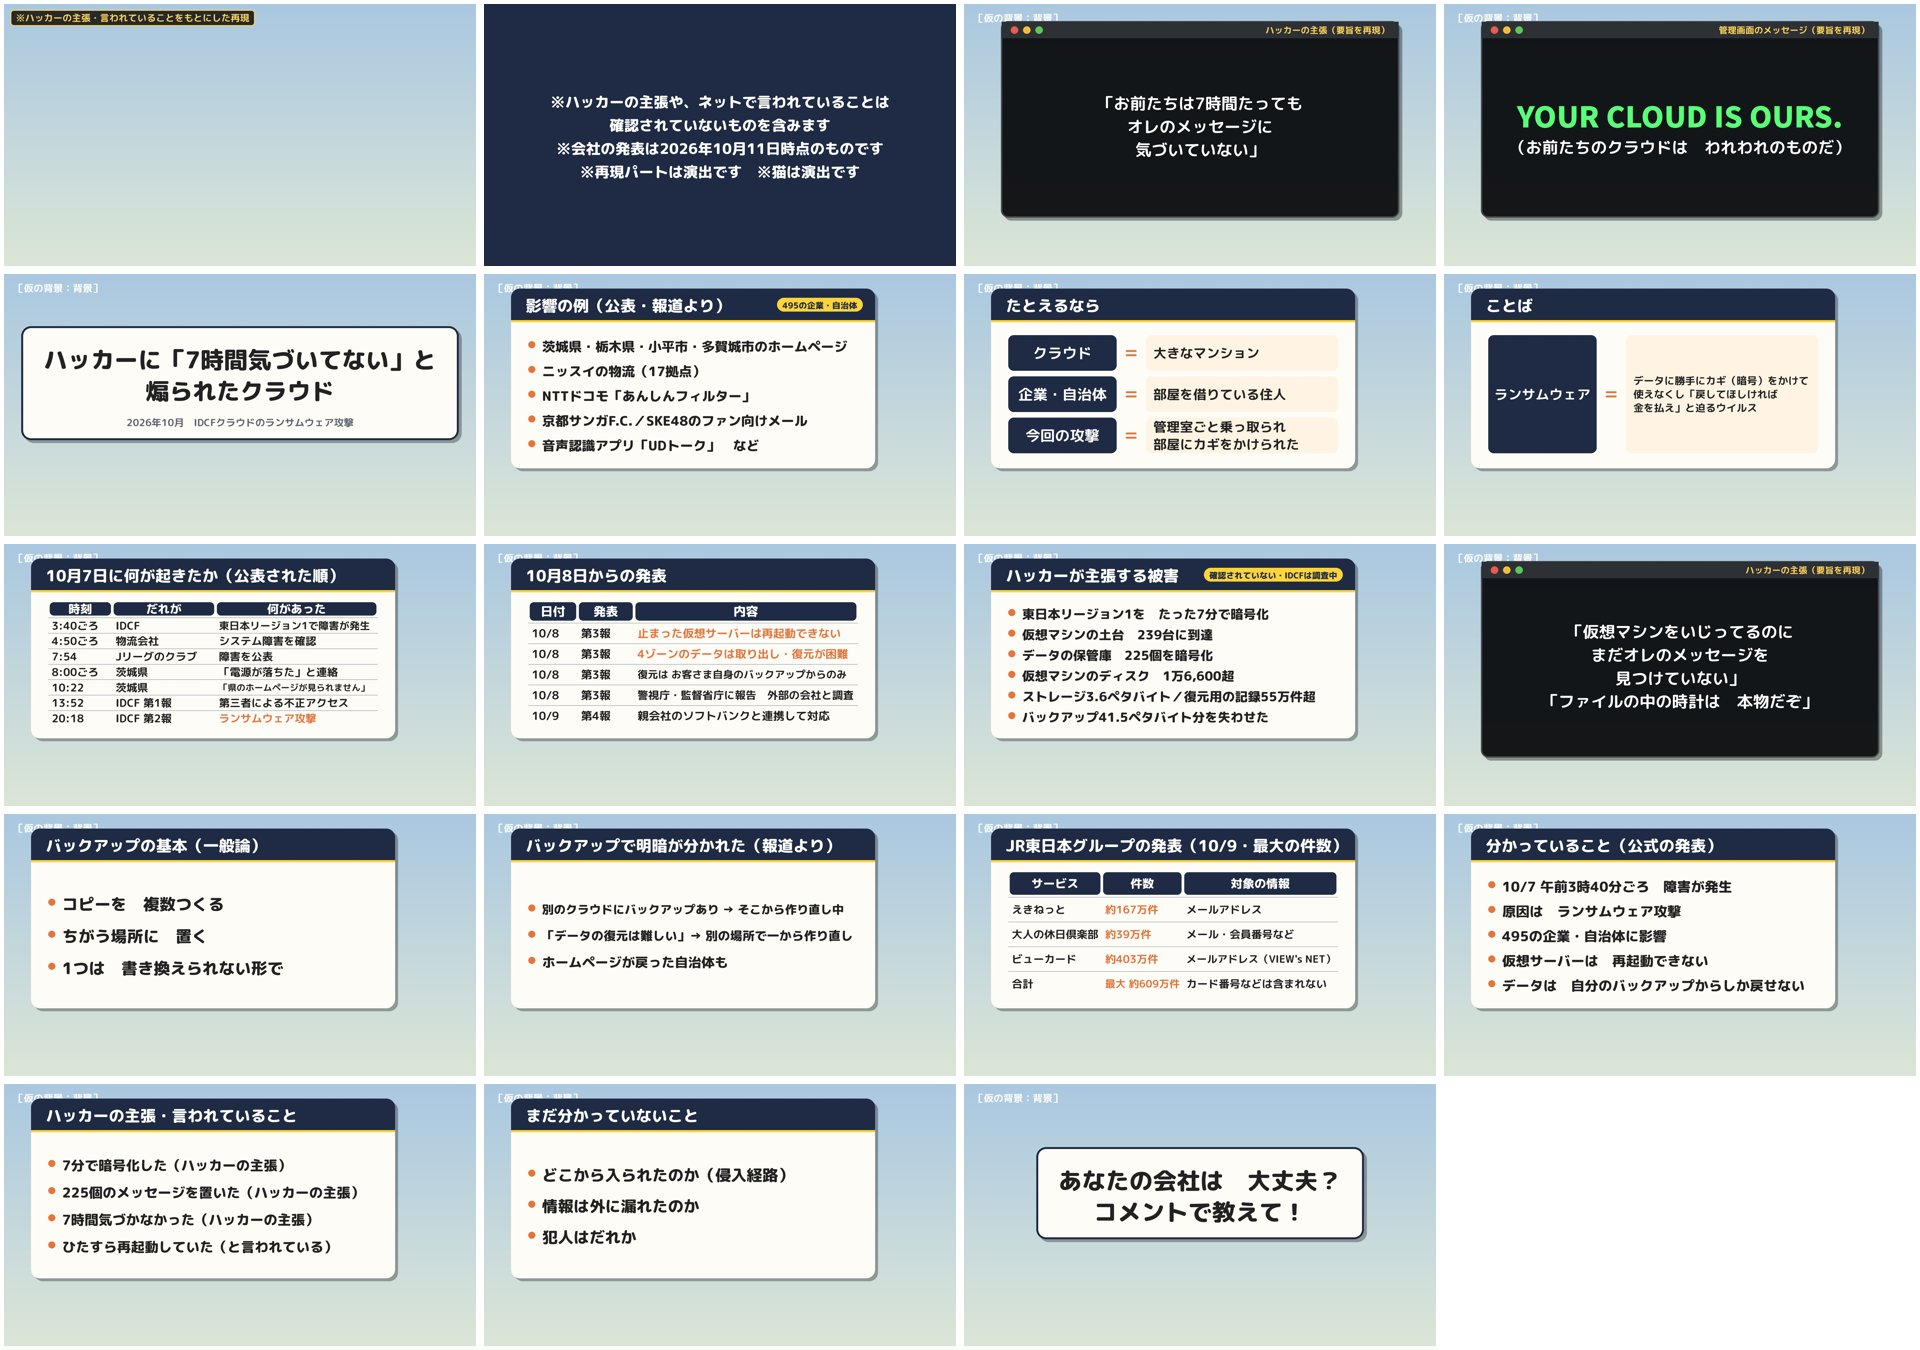
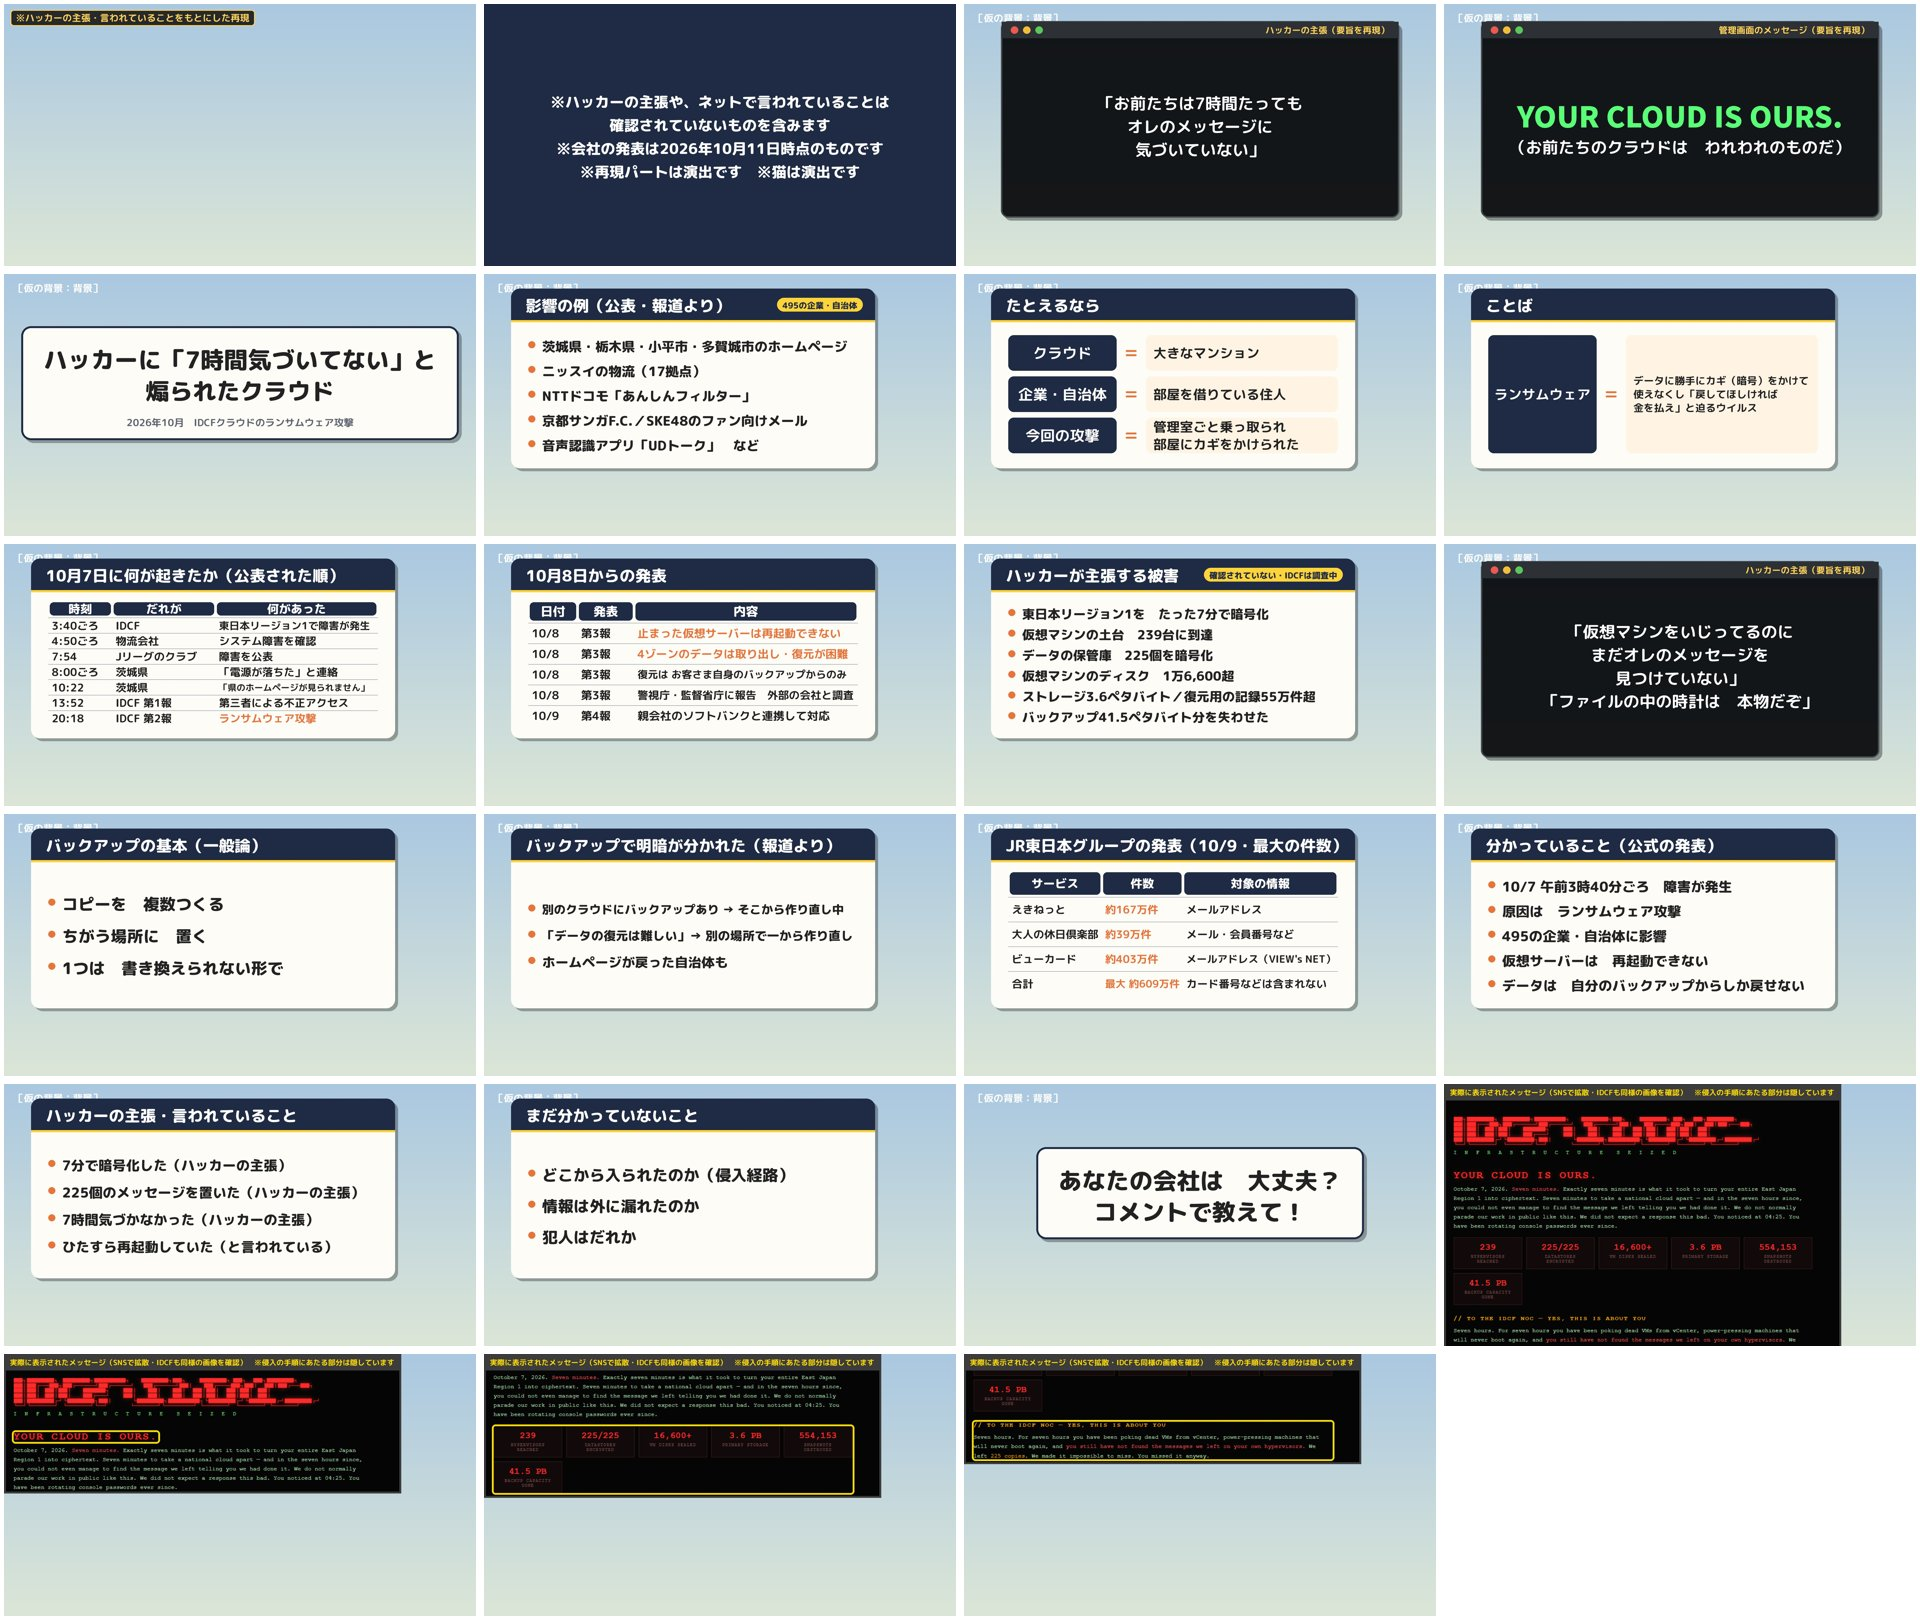
10本目：実際のメッセージ画像で「このメッセージが送られ、すべてが暴露された」場面を追加（侵入の手順の部分は隠す）
Claude-Session: https://claude.ai/code/session_011g9CsrfFD5YswfNSvNDW39

diff --git a/catmeme/cuts_10_idcf.py b/catmeme/cuts_10_idcf.py
@@ -86,7 +86,8 @@ def cuts_all():
         one("bg26_phone_alert", "県のホームページ\n会社の物流システム\nスマホの見守りサービス……", se="pi"),
         one(HACKER, "そして管理画面には\nハッカーのメッセージが\n表示されていた", se="rumble_gogogo",
             bgm={"file": PURPLE, "gain": -4}),
-        dia("e01_msg", "管理画面に出たメッセージ（要旨を再現）", HACKER, right=N, dur=4.4, se="anime_yugioh_summon_powerful_appearance"),
+        dia("r1_top", "「YOUR CLOUD IS OURS.（お前たちのクラウドは　われわれのものだ）」", HACKER, dur=4.6,
+            se="anime_yugioh_summon_powerful_appearance"),
         nn("映画でしか\n聞いたことない\nセリフ！", HACKER, se="boing_01"),
         one(HACKER, "ハッカーは\nこう主張している", se="kon"),
         dia("e01_claim", "ハッカーの主張（確認されていない）", HACKER, right=N, dur=4.4, se="game_persona5_cutin_dramatic_entrance"),
@@ -126,8 +127,16 @@ def cuts_all():
         ss("そこが一番ヤバい\nあとで詳しくやる", se="hyoshigi_01"),
         # ---- 4. ハッカーのメッセージ ----
         chap("ハッカーは何と言っているのか", se="doon_heavy", bgm={"file": NORA, "gain": -4, "fade": 0.4}),
-        one(HACKER, "SNSで広まった\n管理画面の画像", se="pi"),
-        one(HACKER, "IDCFも\n「同じような画像を複数確認」\nと回答（内容は調査中）", se="page_turn_01"),
+        one(HACKER, "管理画面に\nこのメッセージが送られ……", se="pc_warning"),
+        dia("r0_full", "実際に表示されたメッセージ（侵入の手順にあたる部分は隠しています）", HACKER, dur=5.0,
+            se="game_mgs_alert"),
+        dia("r1_top", "「たった7分で　東日本リージョン1をまるごと暗号化した」", HACKER, dur=4.6, se="card_flip"),
+        dia("r2_stats", "やったことを　数字でぜんぶ並べて見せつけた（数字はハッカーの主張）", HACKER, dur=4.8, se="price_display"),
+        dia("r3_noc", "「IDCFの運用チームへ ―― そう、お前たちのことだ」", HACKER, dur=4.6, se="game_persona5_cutin_dramatic_entrance"),
+        close(HACKER, "@react", "ニュース猫", "名指しで\n煽ってる！？", se=["explosion_chudoon"]),
+        ex(HACKER, "このメッセージで　攻撃の“成果”も\n現場の対応の様子も\nすべて暴露されてしまった（内容はハッカーの主張）", dur=4.0,
+           se="tv_hissatsu_slash_finishing_blow_kill"),
+        one(HACKER, "画像はSNSで一気に広まり\nIDCFも「同じような画像を複数確認」\nと回答（内容は調査中）", se="page_turn_01"),
         hk("YOUR CLOUD\nIS OURS.", se="anime_yugioh_summon_powerful_appearance"),
         hk("東日本リージョン1を\n暗号化した\nかかった時間は\nたった7分", se="shine_kiraan_maou"),
         re(dia("e04_claims", "ハッカーが主張する被害（確認されていない）", HACKER, right=HK, dur=5.0, se="card_flip")),

diff --git a/catmeme/make_parts_10_idcf.py b/catmeme/make_parts_10_idcf.py
@@ -41,6 +41,29 @@ def screen(lines, tag="ハッカーの主張（要旨を再現）", big=0):
     return img
 
 
+SHOT = os.path.join(OUT, "src", "hacker_message.png")
+
+
+def shot(box, mark=None):
+    """実際のメッセージ画像（SNSで広まったもの）の一部を切り出す。
+    侵入の手順にあたる下の部分（コマンド・ファイルの場所）は使わない（y=875 より下は切る）。mark=(x0,y0,x1,y1) は赤い枠で囲む所。"""
+    im = Image.open(SHOT).convert("RGBA")
+    x0, y0, x1, y1 = box
+    im = im.crop((x0, y0, x1, min(y1, 875)))
+    d = ImageDraw.Draw(im)
+    if mark:
+        m = (mark[0] - x0, mark[1] - y0, mark[2] - x0, mark[3] - y0)
+        d.rounded_rectangle(m, 12, outline=(255, 220, 0), width=6)
+    k = 1600 / im.width
+    im = im.resize((1600, int(im.height * k)), Image.LANCZOS)
+    out = Image.new("RGBA", (im.width + 16, im.height + 76), (60, 60, 60, 255))
+    out.paste(im, (8, 68))
+    d = ImageDraw.Draw(out)
+    d.text((24, 34), "実際に表示されたメッセージ（SNSで拡散・IDCFも同様の画像を確認）　※侵入の手順にあたる部分は隠しています",
+           font=P.font("round_b", 30), fill=(255, 220, 0), anchor="lm")
+    return out
+
+
 def badge(text="※ハッカーの主張・言われていることをもとにした再現"):
     """再現パートの間ずっと出す、画面左上の札。"""
     img = P.canvas()
@@ -136,6 +159,10 @@ ITEMS = {
     ], size=64),
     "e10_ending": P.message(["あなたの会社は　大丈夫？", "コメントで教えて！"], size=96),
     "badge": badge(),
+    "r0_full": shot((0, 0, 1330, 875)),
+    "r1_top": shot((0, 30, 1330, 445), mark=(20, 235, 520, 280)),
+    "r2_stats": shot((0, 280, 1330, 710), mark=(20, 465, 1245, 705)),
+    "r3_noc": shot((0, 560, 1330, 875), mark=(20, 730, 1245, 870)),
 }
 
 

diff --git a/catmeme/scripts/10_idcf.md b/catmeme/scripts/10_idcf.md
@@ -14,7 +14,7 @@
   - 例：被害の数字 →「ハッカーの主張では」
 - 公式に確認できること（発生時刻・495の企業と自治体・ランサムウェア・再起動できない・データは自分のバックアップからしか戻せない）は、そのまま言い切ってよい
 - 被害を受けた会社・自治体・運用担当者をバカにしない。運用の猫は「深夜に呼び出されて必死な人」。笑いの対象は**ハッカーの上から目線**と、ニュース猫のリアクション
-- 攻撃のやり方の説明はしない（侵入方法・ファイルの場所・コマンドは出さない）。攻撃者のメッセージ画像はそのまま使わず〔カード〕で要旨を再現
+- 攻撃のやり方の説明はしない（侵入方法・ファイルの場所・コマンドは出さない）。攻撃者のメッセージ画像は、**実際の画像を使う（ユーザー決定 10/11）。ただし下の「GO LOOK. RIGHT NOW. HERE IS HOW」以下（コマンド・ファイルの場所＝侵入後の手順）は切って見せない**。「このメッセージが送られ、すべてが暴露されてしまった」という流れで紹介（内容はハッカーの主張）
 - 9本目のハッカー集団（Qilin）と同じ犯人とは言わない（分かっていない）
 - 実在の人物の言葉は報道の要旨のみ。ネットの声は架空の要約。語尾に「にゃ」は使わない
 
@@ -89,7 +89,11 @@
 
 ## 4. ハッカーのメッセージ
 〔区切り〕ハッカーは何と言っているのか
-【字幕】SNSで広まった　管理画面の画像
+【字幕】管理画面に　このメッセージが送られ……
+〔実際の画像〕全体（コマンドの部分は隠す）→「YOUR CLOUD IS OURS.」→ 被害の数字の箱 →「TO THE IDCF NOC — YES, THIS IS ABOUT YOU」の順に寄る
+ニュース猫「名指しで煽ってる！？」
+【字幕】このメッセージで　攻撃の“成果”も　現場の対応の様子も　すべて暴露されてしまった（内容はハッカーの主張）
+【字幕】画像はSNSで一気に広まった
 【字幕】IDCFも「同じような画像を複数確認した」と回答（内容は調査中）
 〔再現〕（画面のすみに「※ハッカーの主張をもとにした再現」の札）
 ハッカー猫「YOUR CLOUD IS OURS.」（黒）

diff --git a/catmeme/scripts/10_idcf_youtube.md b/catmeme/scripts/10_idcf_youtube.md
@@ -35,6 +35,7 @@
 ・「ひたすら再起動していた」は、そう言われている話です。確認されていません
 ・会社の発表は2026年10月11日時点のものです（IDCフロンティア 第4報まで）
 ・JR東日本グループの件数は「漏えいの可能性」がある最大の件数で、流出が確認されたものではありません
+・攻撃者のメッセージは、SNSで広まった画像を報道目的で引用しています。侵入の手順にあたる部分は隠しています
 ・再現パートは演出です。猫はすべて演出です
 ・ネットの声は、ネット上の意見をもとにした架空の要約です
 ・背景イラストの一部はAIで生成しています
